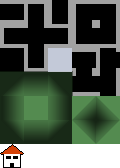
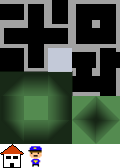
cop spawner tile

Changed region(s): [[0.225, 0.8631, 0.35, 1.0]]

diff --git a/Assets/Scripts/CombineChildren.cs b/Assets/Scripts/CombineChildren.cs
@@ -27,7 +27,7 @@ public class CombineChildren : MonoBehaviour {
 
         MeshFilter[] meshFilters = GetComponentsInChildren<MeshFilter>();
         foreach (var filter in meshFilters) {
-            if (filter.gameObject.GetComponent<Road>() != null) continue;
+            if (filter.gameObject.GetComponent<Road>() != null || filter.tag == "CopSpawn") continue;
             toDestroy.Add(filter.gameObject);
 
             if (filter.sharedMesh == null)
